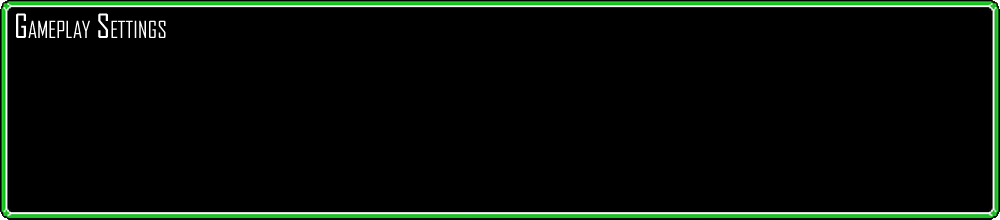
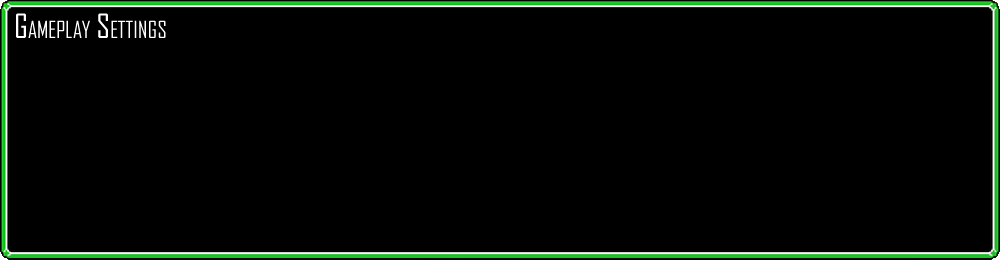
Build 1.5.006 120419
IP logic, modify interface, small logic fixes

Changed region(s): [[0.0, 0.0, 1.0, 0.1909], [0.0, 0.9545, 1.0, 1.0]]

diff --git a/index.html b/index.html
@@ -1,9 +1,9 @@
 <html>
 	<head>
 		<title>ALTTP Randomizer Community Tracker Launcher</title>
-		<script src="js/index.js?v=15005"></script>
+		<script src="js/index.js?v=15006"></script>
 		<script type="text/javascript" src="js/jquery-3.3.1.js"></script>
-		<script src="js/bootstrap.min.js?v=15005"></script>
+		<script src="js/bootstrap.min.js?v=15006"></script>
 		<script type="text/javascript" src="js/jquery.powertip.js"></script>
 		<link rel="stylesheet" type="text/css" href="css/jquery.powertip.css" />
 		<link href="css/fonts.css" rel="stylesheet">
@@ -35,7 +35,7 @@
 	<body onload="load_cookie();" background="./images/overlay/background.png">
 		<div style="float: left; width: 400px;">
 			<img src="./images/overlay/header.png" style="width: 380px"><br>
-			<span style="font-size: 10px; color: white; float: right; margin: 8px 20px 0px 0px;">Build 1.5.005 120219 - Compatible for v31.x</span><br><br>
+			<span style="font-size: 10px; color: white; float: right; margin: 8px 20px 0px 0px;">Build 1.5.006 120419 - Compatible for v31.x</span><br><br>
 			<a href="release.html"><img src='./images/overlay/release.png' style="width: 380px"/></a><br><br>
 			<a href="issues.html"><img src='./images/overlay/issues.png' style="width: 380px"/></a><br><br>
 			<a href="contributors.html"><img src='./images/overlay/contributors.png' style="width: 380px"/></a><br><br>
@@ -63,8 +63,6 @@
 									</td>
 									<td width="100px">
 										<input type="button" value="Mystery Seed" style="font-family: 'roboto_condensedregular', sans-serif; font-size: 14px; background-color: #BBB;" onclick="loadmysterypreset()" />
-										<input id="mysteryno" value="N" type="radio" name="mysterygroup" checked style=position:fixed;opacity:0;visibility: hidden" />
-										<input id="mysteryyes" value="Y" type="radio" name="mysterygroup" style=position:fixed;opacity:0;visibility: hidden" />
 									</td>
 									<td width="62px">
 									</td>
@@ -82,7 +80,7 @@
 					
 					<tr>
 						<td>
-							<table width="1000px" height="220px" background="./images/overlay/gameplay.png" style="margin: auto; color: white; font-family: 'roboto_condensedregular', sans-serif; padding-left: 20px;">
+							<table width="1000px" height="260px" background="./images/overlay/gameplay.png" style="margin: auto; color: white; font-family: 'roboto_condensedregular', sans-serif; padding-left: 20px;">
 								<tr height="40px">
 									<td>
 									</td>
@@ -145,6 +143,19 @@
 									<td>
 										<input id="enemyshuffled" value="S" type="radio" name="enemygroup" />
 										<label for="enemyshuffled" style="width:100px" >Shuffled/Random</label>
+									</td>
+								</tr>
+								<tr>
+									<td width="100px">
+										Mystery Settings: <span class="south" title="Allows for hot swapping modes during play, for easy adjusting for Mystery seeds!" style="font-size: 12px; color: red; cursor: pointer;">[?]</span>
+									</td>
+									<td>
+										<input id="mysteryno" value="N" type="radio" name="mysterygroup" checked />
+										<label for="mysteryno" style="width:100px" >No</label>
+									</td>
+									<td>
+										<input id="mysteryyes" value="S" type="radio" name="mysterygroup" />
+										<label for="mysteryyes" style="width:100px" >Yes</label>
 									</td>
 								</tr>
 							</table>

diff --git a/release.html b/release.html
@@ -16,6 +16,16 @@
 		<button type="button" onclick="window.location.href = 'index.html';" style="width: 200px; text-align: center; font-family: 'roboto_condensedregular', Arial, Helvetica, sans-serif;"><== RETURN TO MAIN</button><br><br>
 		<div style="width:1000px; color: white; font-size: 20px;">
 			Latest Changes:<br><br>
+			<b><i>12/04/2019 Build 1.5.006 120419</i></b><br>
+			<ul>
+				<u>Interface Changes</u><br>
+				<li>Moved Mystery settings flag to the main interface and changed so the tracker does not auto-load on a preset setting, but instead goes to the display settings at the bottom</li><br>
+				<u>Logic Changes</u><br>
+				<li>Modified the Ice Palace boss logic to once again allow for possible completion without Hookshot or Somaria</li><br>
+				NOTE: I've gone back and forth with this logic, as it makes no actual sense. However, there are situations where you can force the old vanilla route with keys up front where hook and cane are not actually required. Also note, that in full keysanity mode, it will still return an unavailable (red) for the boss when you don't have hook, cane, or the big key. Chest logic remains unchanged.<br><br>
+				<li>Fixed issue where hammer was required for low crystal count GT for chests</li><br>
+				<li>Fixed a map tracking update issue where crystals and pendants are swapped, not affecting map tracking for GT entry and Ganon vulnerability until a refresh has occurred</li><br>
+			</ul>
 			<b><i>12/02/2019 Build 1.5.005 120219</i></b><br>
 			<ul>
 				<u>Logic Changes</u><br>

diff --git a/entrancetracker.html b/entrancetracker.html
@@ -2,18 +2,18 @@
 	<head>
 		<title>ALTTP Randomizer Community Tracker</title>
 
-		<script src="js/jquery-3.3.1.js?v=15005"></script>
-		<script src="js/bootstrap.min.js?v=15005"></script>
-		<link rel="stylesheet" type="text/css" href="css/entrancestyle.css?v=15005">
-		<link rel="stylesheet" type="text/css" href="css/sprites.css?v=15005">
+		<script src="js/jquery-3.3.1.js?v=15006"></script>
+		<script src="js/bootstrap.min.js?v=15006"></script>
+		<link rel="stylesheet" type="text/css" href="css/entrancestyle.css?v=15006">
+		<link rel="stylesheet" type="text/css" href="css/sprites.css?v=15006">
 		<link href="css/fonts.css" rel="stylesheet">		
 
-		<script src="js/util.js?v=15005"></script>
-		<script src="js/items.js?v=15005"></script>
-		<script src="js/entrancechests.js?v=15005"></script>
-		<script src="js/track.js?v=15005"></script>
-		<script src="js/dungeons.js?v=15005"></script>
-		<script src="js/spoiler.js?v=15005"></script>
+		<script src="js/util.js?v=15006"></script>
+		<script src="js/items.js?v=15006"></script>
+		<script src="js/entrancechests.js?v=15006"></script>
+		<script src="js/track.js?v=15006"></script>
+		<script src="js/dungeons.js?v=15006"></script>
+		<script src="js/spoiler.js?v=15006"></script>
 
 		<!-- Global site tag (gtag.js) - Google Analytics -->
 		<script async src="https://www.googletagmanager.com/gtag/js?id=UA-128165990-1"></script>

diff --git a/tracker.html b/tracker.html
@@ -2,18 +2,18 @@
 	<head>
 		<title>ALTTP Randomizer Community Tracker</title>
 
-		<script src="js/jquery-3.3.1.js?v=15005"></script>
-		<script src="js/bootstrap.min.js?v=15005"></script>
-		<link rel="stylesheet" type="text/css" href="css/style.css?v=15005">
-		<link rel="stylesheet" type="text/css" href="css/sprites.css?v=15005">
+		<script src="js/jquery-3.3.1.js?v=15006"></script>
+		<script src="js/bootstrap.min.js?v=15006"></script>
+		<link rel="stylesheet" type="text/css" href="css/style.css?v=15006">
+		<link rel="stylesheet" type="text/css" href="css/sprites.css?v=15006">
 		<link href="css/fonts.css" rel="stylesheet">		
 
-		<script src="js/util.js?v=15005"></script>
-		<script src="js/items.js?v=15005"></script>
-		<script src="js/chests.js?v=15005"></script>
-		<script src="js/track.js?v=15005"></script>
-		<script src="js/dungeons.js?v=15005"></script>
-		<script src="js/spoiler.js?v=15005"></script>
+		<script src="js/util.js?v=15006"></script>
+		<script src="js/items.js?v=15006"></script>
+		<script src="js/chests.js?v=15006"></script>
+		<script src="js/track.js?v=15006"></script>
+		<script src="js/dungeons.js?v=15006"></script>
+		<script src="js/spoiler.js?v=15006"></script>
 
 		<!-- Global site tag (gtag.js) - Google Analytics -->
 		<script async src="https://www.googletagmanager.com/gtag/js?id=UA-128165990-1"></script>

diff --git a/issues.html b/issues.html
@@ -16,7 +16,7 @@
 		<button type="button" onclick="window.location.href = 'index.html';" style="width: 200px; text-align: center; font-family: 'roboto_condensedregular', Arial, Helvetica, sans-serif;"><== RETURN TO MAIN</button><br><br>
 		<div style="width:1000px; color: white; font-size: 20px;">
 			<ul>
-				<b>Build 1.5.005 120219</b><br><br>
+				<b>Build 1.5.006 120419</b><br><br>
 				<li>No, not being able to toggle Bombs is NOT a bug! You asked for them, you got them, and you'll ALWAYS have them!</li><br>
 				<li>Inverted entrance currently has no logic (All entrances and items are marked as available); this will be added in a future release</li><br>
 				<li>We are aware that scaling the tracker in your browser can cause unexpected results. This will be eventually addressed, but it may require some style rewriting so it may take some time.</li><br>
@@ -25,7 +25,6 @@
 				<li>Inverted Entrance: Adding logic</li><br>
 				<li>Adding Half Magic logic</li><br>
 				<li>Adding Glitched Logic modes</li><br>
-				<li>Mystery Seed Interface: Ability to modify the modes after the tracker has loaded</li><br>
 				<li>Adding an instructions page and updating the global landing page</li><br>
 			</ul>
 			Found an issue?  Please report it to Dunka (Discord: BigDunka#8354) to be added to the issues list<br>

diff --git a/js/index.js b/js/index.js
@@ -107,7 +107,7 @@ function load2019preset() {
 	document.getElementById("ganonselect").value = 7;
 	document.getElementById("swordsrandomized").checked = true;
 	document.getElementById("mysteryno").checked = true;
-	launch_tracker();
+	window.scrollTo(0,document.body.scrollHeight);
 }
 
 function loadmysterypreset() {
@@ -125,8 +125,7 @@ function loadmysterypreset() {
 	document.getElementById("ganonselect").value = 7;
 	document.getElementById("swordsrandomized").checked = true;
 	document.getElementById("mysteryyes").checked = true;
-	launch_tracker();
-	document.getElementById("mysteryno").checked = true;
+	window.scrollTo(0,document.body.scrollHeight);
 }
 
 function importflags() {

diff --git a/js/dungeons.js b/js/dungeons.js
@@ -223,11 +223,12 @@
 
     window.IPBoss = function() {
 		var dungeoncheck = enemizer_check(7);
+		if (!items.hammer || dungeoncheck == 'unavailable') return 'unavailable';
 		if (flags.dungeonitems === 'F') {
-			if (!items.hammer) return 'unavailable';
-			if (!items.hookshot && (!items.somaria || !items.bigkey7)) return 'unavailable';
+			if (!items.bigkey7 && !items.somaria && !items.hookshot) return 'unavailable';
+			if (!items.hookshot && !items.somaria) return 'possible';
 		} else {
-			if (!items.hammer || (!items.somaria && !items.hookshot)) return 'unavailable';
+			if (!items.hookshot && !items.somaria) return 'possible';
 		}
 		
 		return dungeoncheck;

diff --git a/js/track.js b/js/track.js
@@ -199,6 +199,8 @@
                     document.getElementById('locationMap'+pendant_chests[k]).className = 'location ' + chests[pendant_chests[k]].is_available();
             }
         }
+		
+		updateMapTracker();
     };
 	
     window.rightClickPrize = function(n) {
@@ -215,6 +217,7 @@
                     document.getElementById('locationMap'+pendant_chests[k]).className = 'location ' + chests[pendant_chests[k]].is_available();
             }
         }
+		updateMapTracker();
     };	
 	
 	

diff --git a/js/chests.js b/js/chests.js
@@ -1164,7 +1164,7 @@
 					return window.GTBoss();
 				},
 				can_get_chest: function() {
-					if ((crystalCheck() < 7 && crystalCheck() < flags.opentowercount) || items.glove < 2 || !items.hammer || !canReachDarkWorld()) return 'unavailable';
+					if ((crystalCheck() < 7 && crystalCheck() < flags.opentowercount) || items.glove < 2 || !canReachDarkWorld()) return 'unavailable';
 					return window.GTChests();
 				}
 			}];
